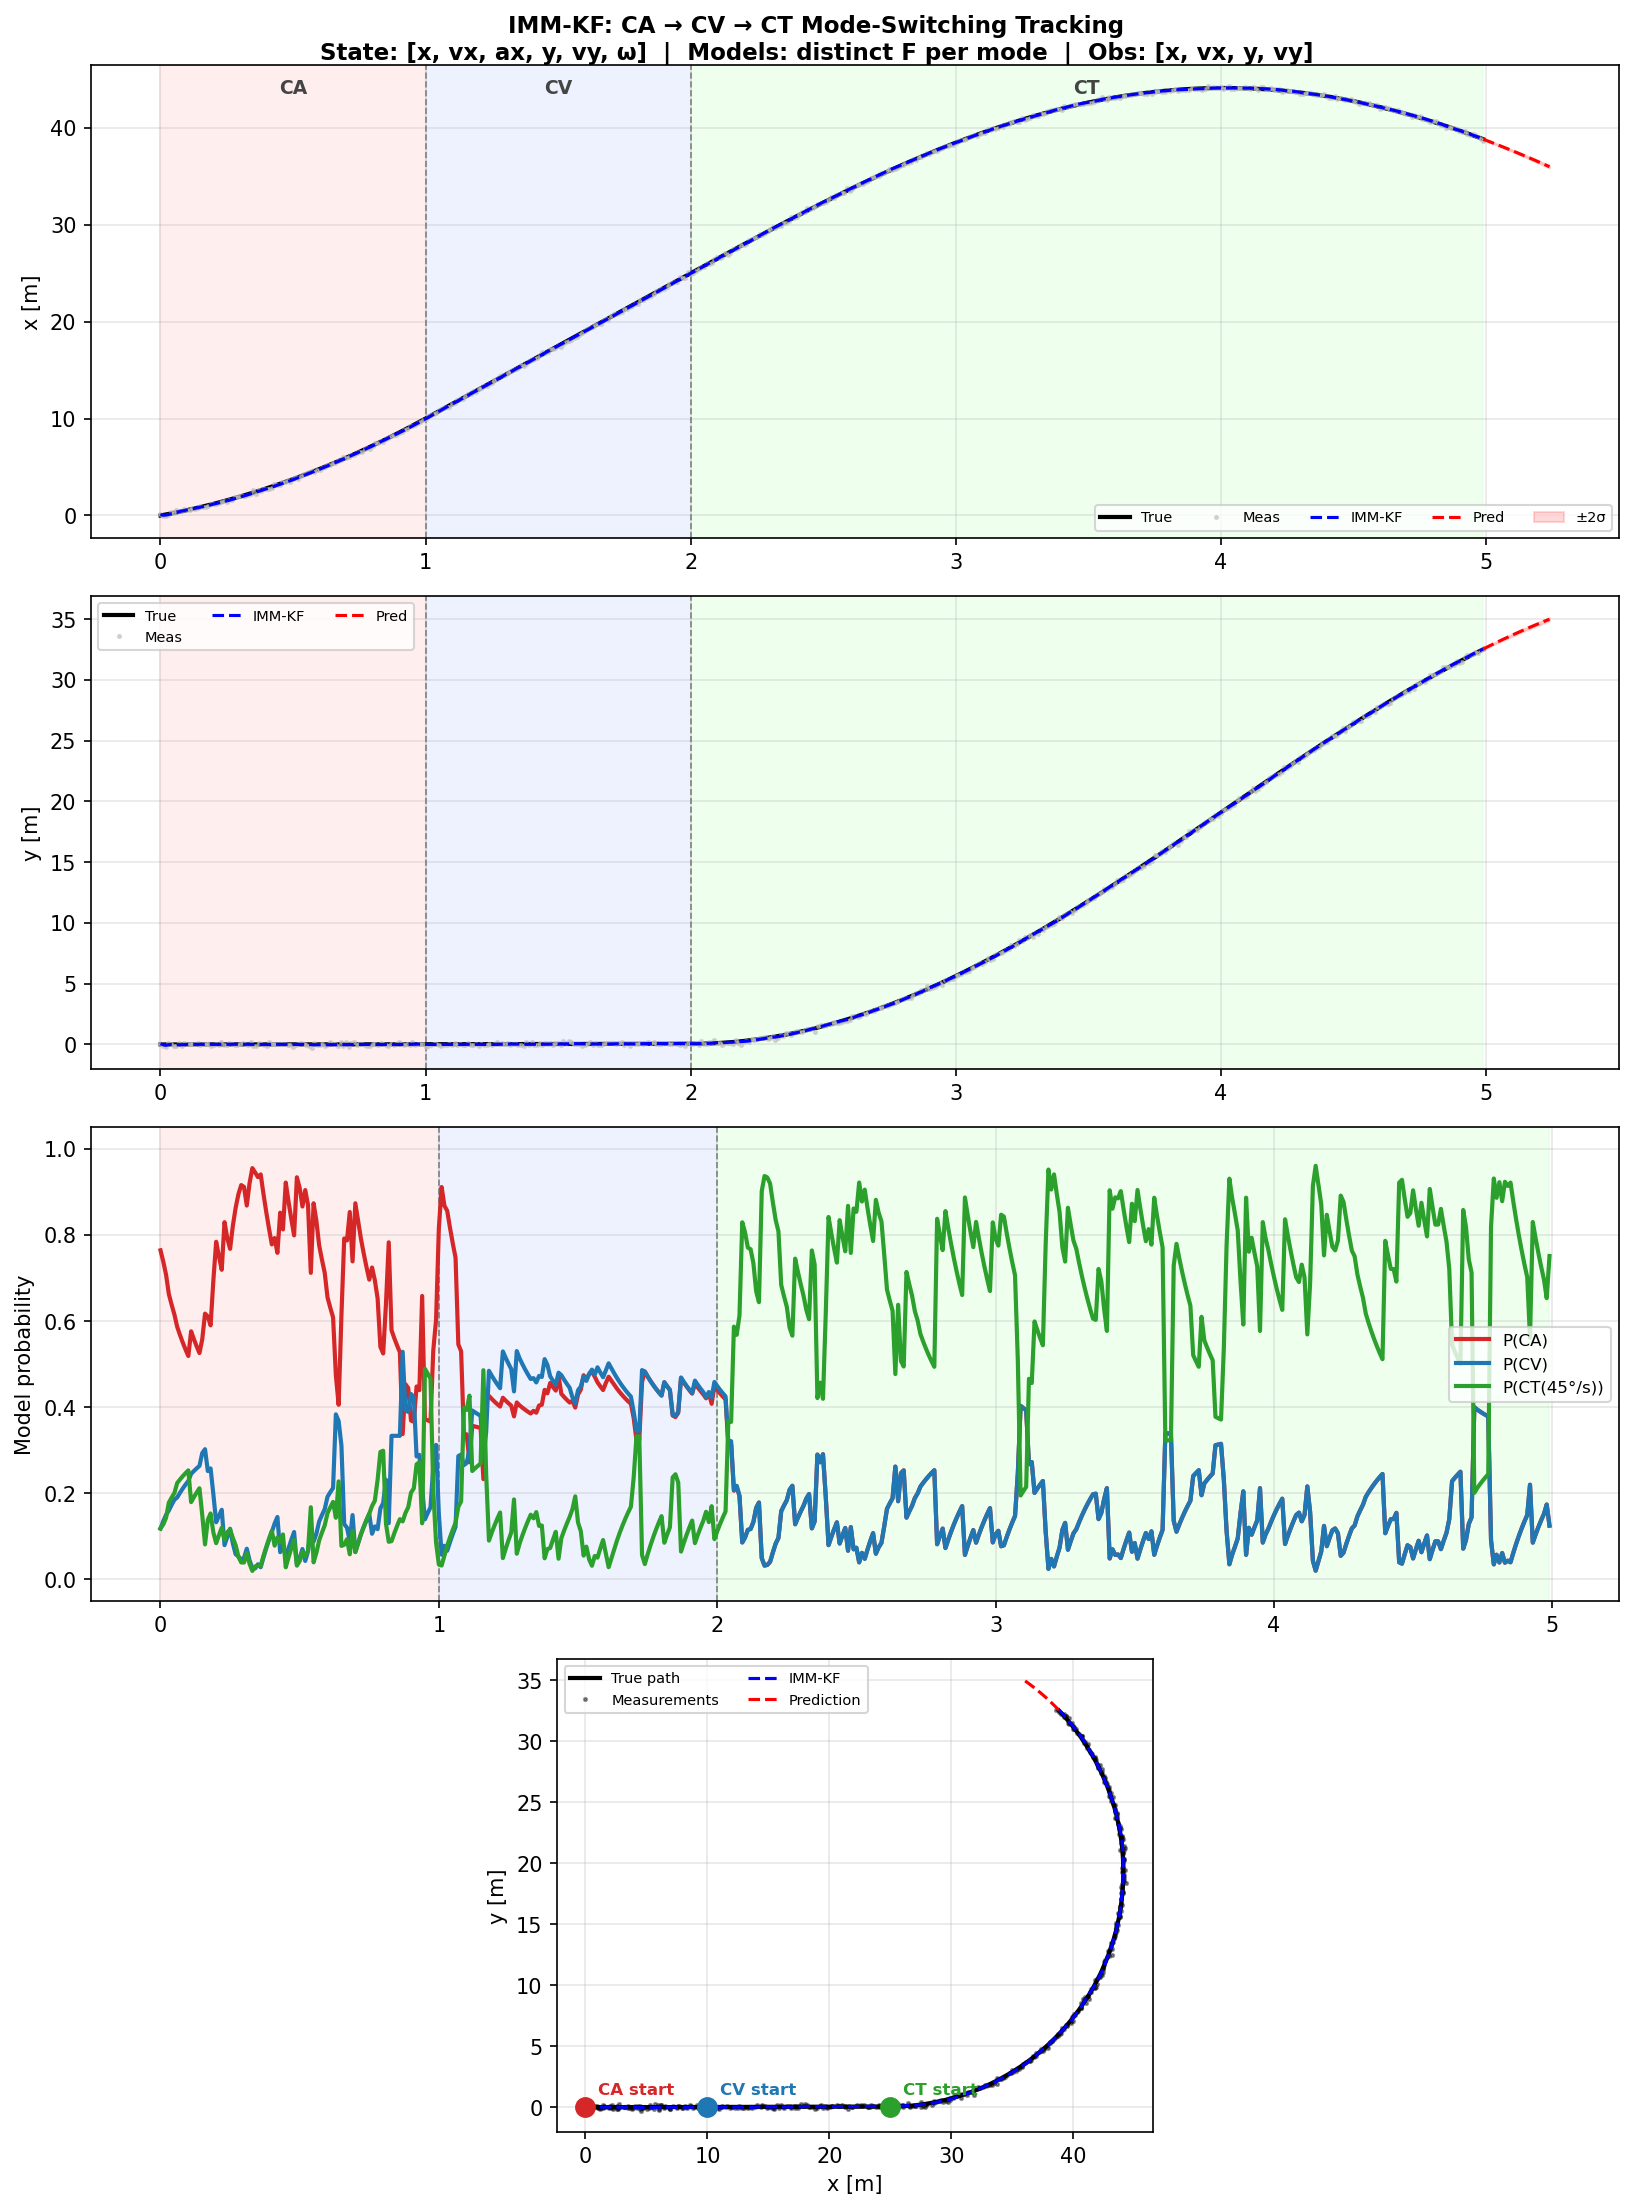
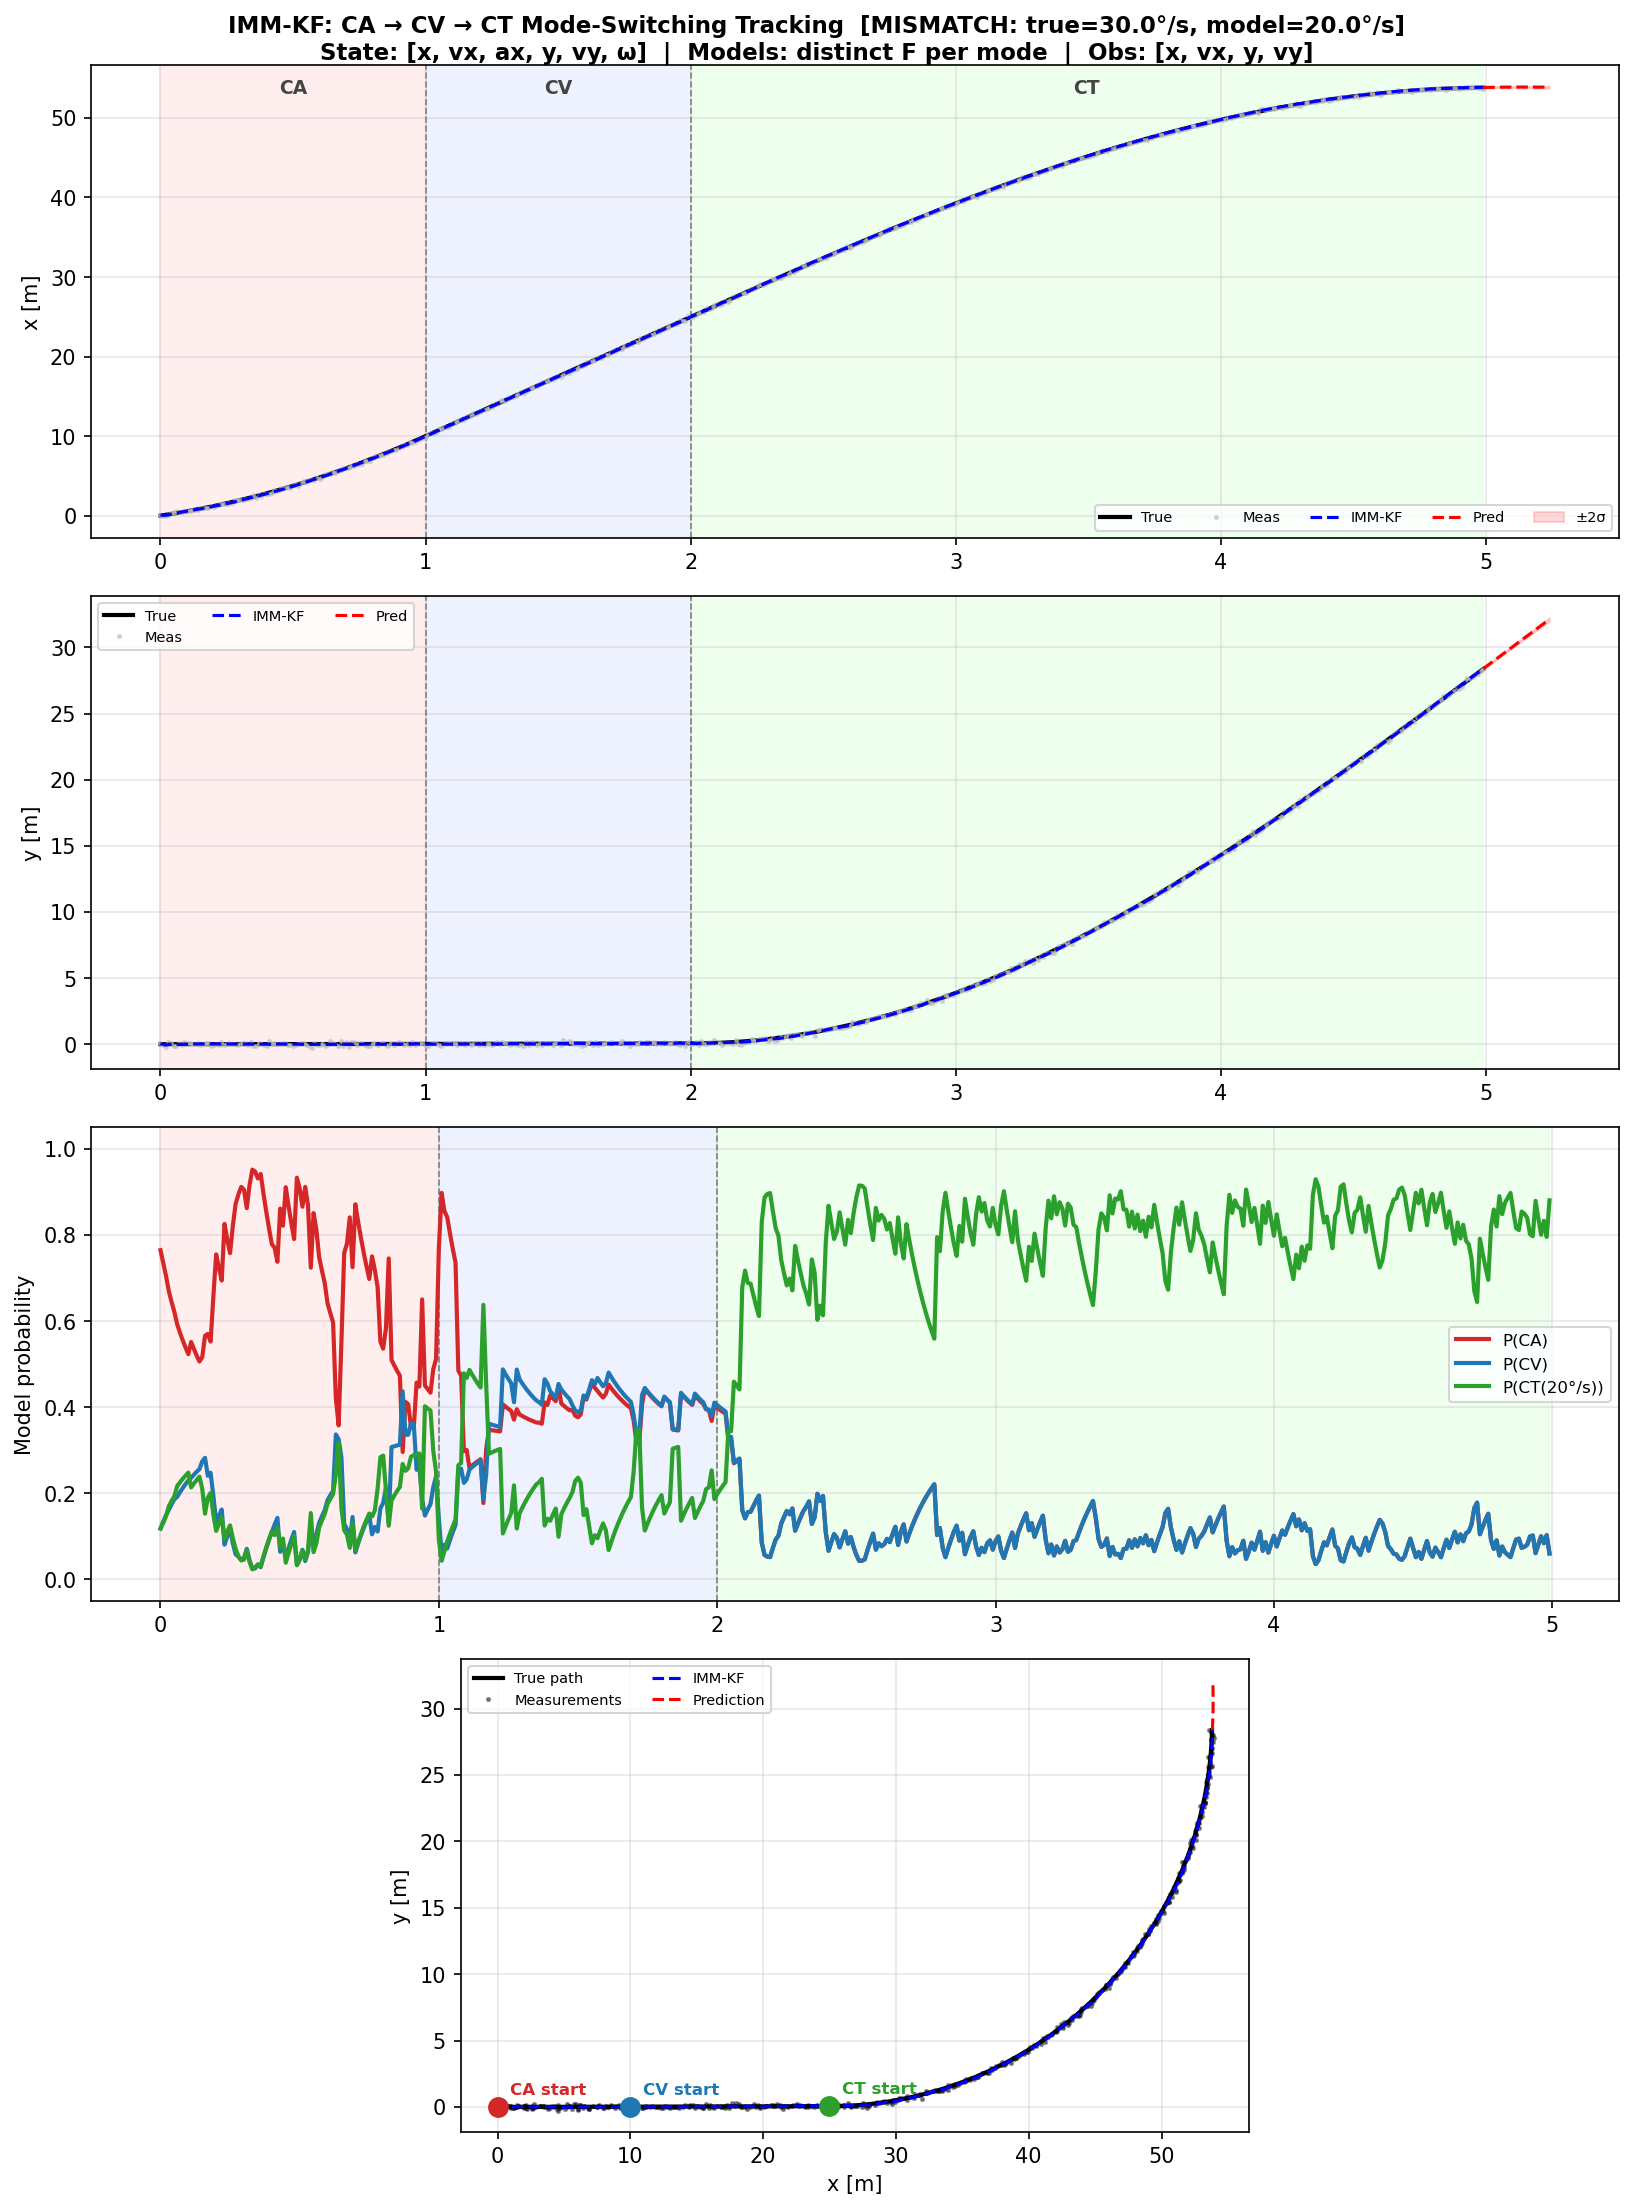
enabling different turn rate in the ground truth and in the model'

diff --git a/scripts/imm_kf_ca_cv_ct.py b/scripts/imm_kf_ca_cv_ct.py
@@ -24,7 +24,8 @@ Ts     = 0.01
 N      = 500           # total steps (5 s)
 CA_END = 100           # last CA step  (1 s)
 CV_END = 200           # last CV step  (2 s), CT begins after
-OMEGA  = np.deg2rad(45.0)   # turn rate [rad/s]
+OMEGA_TRUE  = np.deg2rad(30.0)   # ground-truth turn rate [rad/s]
+OMEGA_MODEL = np.deg2rad(20.0)   # CT model's assumed turn rate [rad/s] — set differently to test mismatch
 
 SIGMA_OBS_POS = 0.1    # position measurement noise [m]
 SIGMA_OBS_VEL = 0.5    # velocity measurement noise [m/s]
@@ -61,7 +62,7 @@ def ground_truth() -> tuple:
             x[k]  = x[k-1] + Ts * vx[k-1]
             y[k]  = y[k-1]  + Ts * vy[k-1]
         else:                                       # --- CT with turn-rate jitter ---
-            omega_k  = OMEGA + np.random.randn() * sigma_omega
+            omega_k  = OMEGA_TRUE + np.random.randn() * sigma_omega
             theta_k  = omega_k * Ts
             sk, ck   = np.sin(theta_k), np.cos(theta_k)
             x[k]  = x[k-1] + sk/omega_k * vx[k-1] - (1 - ck)/omega_k * vy[k-1]
@@ -77,7 +78,7 @@ def ground_truth() -> tuple:
 # ---------------------------------------------------------------------------
 
 def build_imm() -> IMMKF:
-    turn_deg = np.rad2deg(OMEGA)
+    turn_deg = np.rad2deg(OMEGA_MODEL)
     ca_model = make_2d_ca_model(Ts, sigma_j=3.0,  sigma_obs_pos=SIGMA_OBS_POS, sigma_obs_vel=SIGMA_OBS_VEL)
     cv_model = make_2d_cv_model(Ts, sigma_cv=0.5, sigma_obs_pos=SIGMA_OBS_POS, sigma_obs_vel=SIGMA_OBS_VEL)
     ct_model = make_2d_ct_model(Ts, turn_rate_deg=turn_deg, sigma_obs_pos=SIGMA_OBS_POS, sigma_obs_vel=SIGMA_OBS_VEL)
@@ -142,8 +143,10 @@ def run_demo():
     t_cv = CV_END * Ts
 
     fig, axes = plt.subplots(4, 1, figsize=(11, 15))
+    mismatch = "" if np.isclose(OMEGA_TRUE, OMEGA_MODEL) else \
+        f"  [MISMATCH: true={np.rad2deg(OMEGA_TRUE):.1f}°/s, model={np.rad2deg(OMEGA_MODEL):.1f}°/s]"
     fig.suptitle(
-        "IMM-KF: CA → CV → CT Mode-Switching Tracking\n"
+        f"IMM-KF: CA → CV → CT Mode-Switching Tracking{mismatch}\n"
         "State: [x, vx, ax, y, vy, ω]  |  Models: distinct F per mode  |  Obs: [x, vx, y, vy]",
         fontsize=11, fontweight='bold',
     )